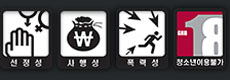
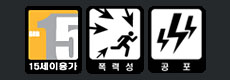
Modify : footer menu modify

diff --git a/lucifer/lucifer/templates/partials/footer.html b/lucifer/lucifer/templates/partials/footer.html
@@ -67,27 +67,22 @@
         <div class="footer">
             <article class="wrap">
                 <a href="{% url "home" %}" target="_blank"><img src="{% static "images/Main_logo4.png" %}"  class="webzen"/></a>
-            <div class="link"> 
-                <a href="#" target="_blank">이용약관</a>  <!-- 음... 이건뭐어케하지 없앨까 -->
+            <div class="link" > 
+                <a href="#" onclick="window.open('{% url 'policy' %}','window','width=880; height=650; scrollbars=yes');">Lucifer 운영정책</a>
                 <span>|</span>
-                <a href="#" target="_blank">Lucifer 운영정책</a>
+                <a href="{% url "faq" %}">고객센터</a>
                 <span>|</span>
-                <a href="#" target="_blank"><strong>개인정보처리방침</strong></a>
+                <a href="http://mm.nsu.ac.kr/?_page=1" target="_blank">NsuMulti</a>
                 <span>|</span>
-                <a href="#" target="_blank">청소년보호정책</a>
-                <span>|</span>
-                <a href="#" target="_blank">회사소개</a>
-                <span>|</span>
-                <a href="#" target="_blank">NsuMulti</a>
-                <span>|</span>
-                <a href="#" target="_blank">게임이용등급</a>
+                <a href="#" data-toggle="tooltip" data-placement="right" title="만 15세 이상 이용가능">게임이용등급</a>
             </div>
             <address>
-                상호명: (주)Lucifer 대표이사: 한민수 최영준 김회언 주소: 충청남도 천안시 성환읍 남서울대학교<br>
-                FAX: 041-521-1348 웹마스터메일: <a href="mailto:slhgesa@naver.com">Lucifer-help@nsu.com</a> 고객지원센터: 1566-4545 <a href="#" target="_blank">사업자정보확인</a>
+                상호명: Lucifer &nbsp;&nbsp;&nbsp;대표: 한민수 최영준 김회언 &nbsp;&nbsp;&nbsp;주소: 충청남도 천안시 성환읍 남서울대학교<br>
+                FAX: 041-521-1348 웹마스터메일: <a href="mailto:slhgesa@naver.com">Lucifer-help@nsu.com</a> 고객지원센터: 1566-4545 
                 <span>NsuMulti Inc. Global Digital Entertainment Leader ©NsuMulti Inc. All Rights Reserverd.</span>
                 <img src="{% static "images/Grade.jpg" %}" class="grade-pop" alt="">
                 <br><img src="http://image.webzen.kr/Mu/ignition/v01/images/img_dev.png" alt="">
             </address>
             </article>
         </div>
+

diff --git a/lucifer/lucifer/static/css/Base.css b/lucifer/lucifer/static/css/Base.css
@@ -90,19 +90,21 @@ input, select, button{vertical-align:middle;}
 .Sitemap .Sitemap-wrap dt {padding:20px 0 10px;}
 .Sitemap .Sitemap-wrap dd {padding:10px 0 0;}
 .Sitemap .Sitemap-wrap dt, .Sitemap .Sitemap-wrap dd {text-align:center;}
-.Sitemap .Sitemap-wrap dt a { font-size:18px; color:#cbcccc;}
+.Sitemap .Sitemap-wrap dd a { color:#ffffff; }
+.Sitemap .Sitemap-wrap dd a:hover { color: #e62200; }
+.Sitemap .Sitemap-wrap dt a { font-size:18px; color:#e62200;}
 
 /* footer 부분 */
 .footer{padding:25px 0; background:#26292b; width:100%;  float:left;}
 .footer .wrap{width:1021px; margin:0 auto; text-align:left; position:relative; }
 .footer .link, .footer address, .footer em{font-size:12px; margin:20px 0 0 190px;}
-.footer .link{padding:0 0 20px; color:#666;}
+.footer .link{padding:0 40px 20px; color:#666;}
 .footer .link span, .footer .link a{vertical-align:middle;}
 .footer .link span{display:inline-block; width:1px; height:8px; line-height:0px; font-size:0px; background:#666; margin:0 15px; position:relative; top:1px;}
 .footer .link a{color:#686868;}
 .footer .link .underline{text-decoration:underline; color:#999;}
-.footer address{padding:0 0 20px; color:#606264;}
+.footer address{padding:0 40px 20px; color:#606264;}
 .footer address a{text-decoration:none; color:#606264; line-height:140%;}
 .footer address span{display:block; padding:20px 0 0; color:#494949;}
 .footer .grade-pop{display:block; width:230px; height:80px; float:right;}
-.footer .webzen{display:block;width:150px;height:75px; position:absolute; margin:0; margin-left:10px;}
+.footer .webzen{display:block;width:150px;height:75px; position:absolute; margin:0; margin-left:25px;}

diff --git a/lucifer/lucifer/templates/base.html b/lucifer/lucifer/templates/base.html
@@ -5,7 +5,6 @@
 <head>
     <meta charset="UTF-8">
     <title>루시퍼|{% block title %}{% endblock %}</title>
-
     <script src="https://code.jquery.com/jquery-3.1.1.min.js"></script>
     <script src="{% static "js/flickity.pkgd.min.js" %}"></script>
     <script src="https://maxcdn.bootstrapcdn.com/bootstrap/3.3.2/js/bootstrap.min.js"></script>
@@ -18,7 +17,12 @@
     <link rel="stylesheet" href="{% static "css/Base.css" %}">
     <link rel="stylesheet" href="{% static "css/main.css" %}">
     <link rel="stylesheet" href="{% static "css/topbar.css" %}">
-    <link rel="stylesheet" href="https://maxcdn.bootstrapcdn.com/font-awesome/4.6.1/css/font-awesome.min.css"> 
+    <link rel="stylesheet" href="https://maxcdn.bootstrapcdn.com/font-awesome/4.6.1/css/font-awesome.min.css">
+    <script type="text/javascript">
+        $(function () {
+            $('[data-toggle="tooltip"]').tooltip()
+        })
+    </script> 
     {% block css %}
     {% endblock %}
 
